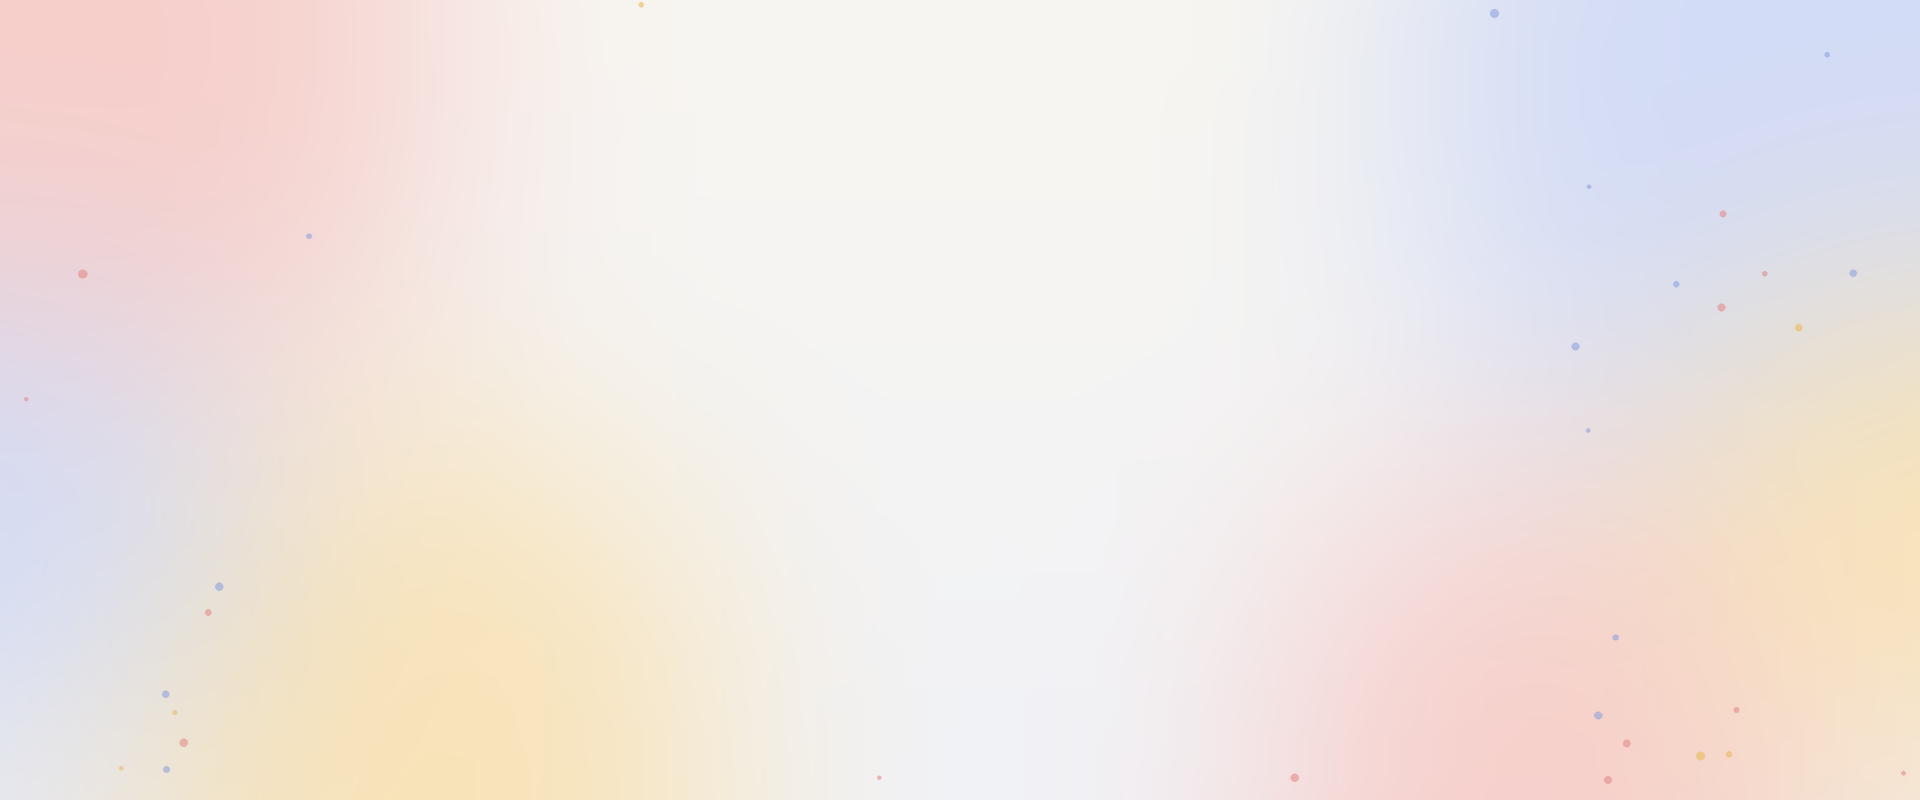
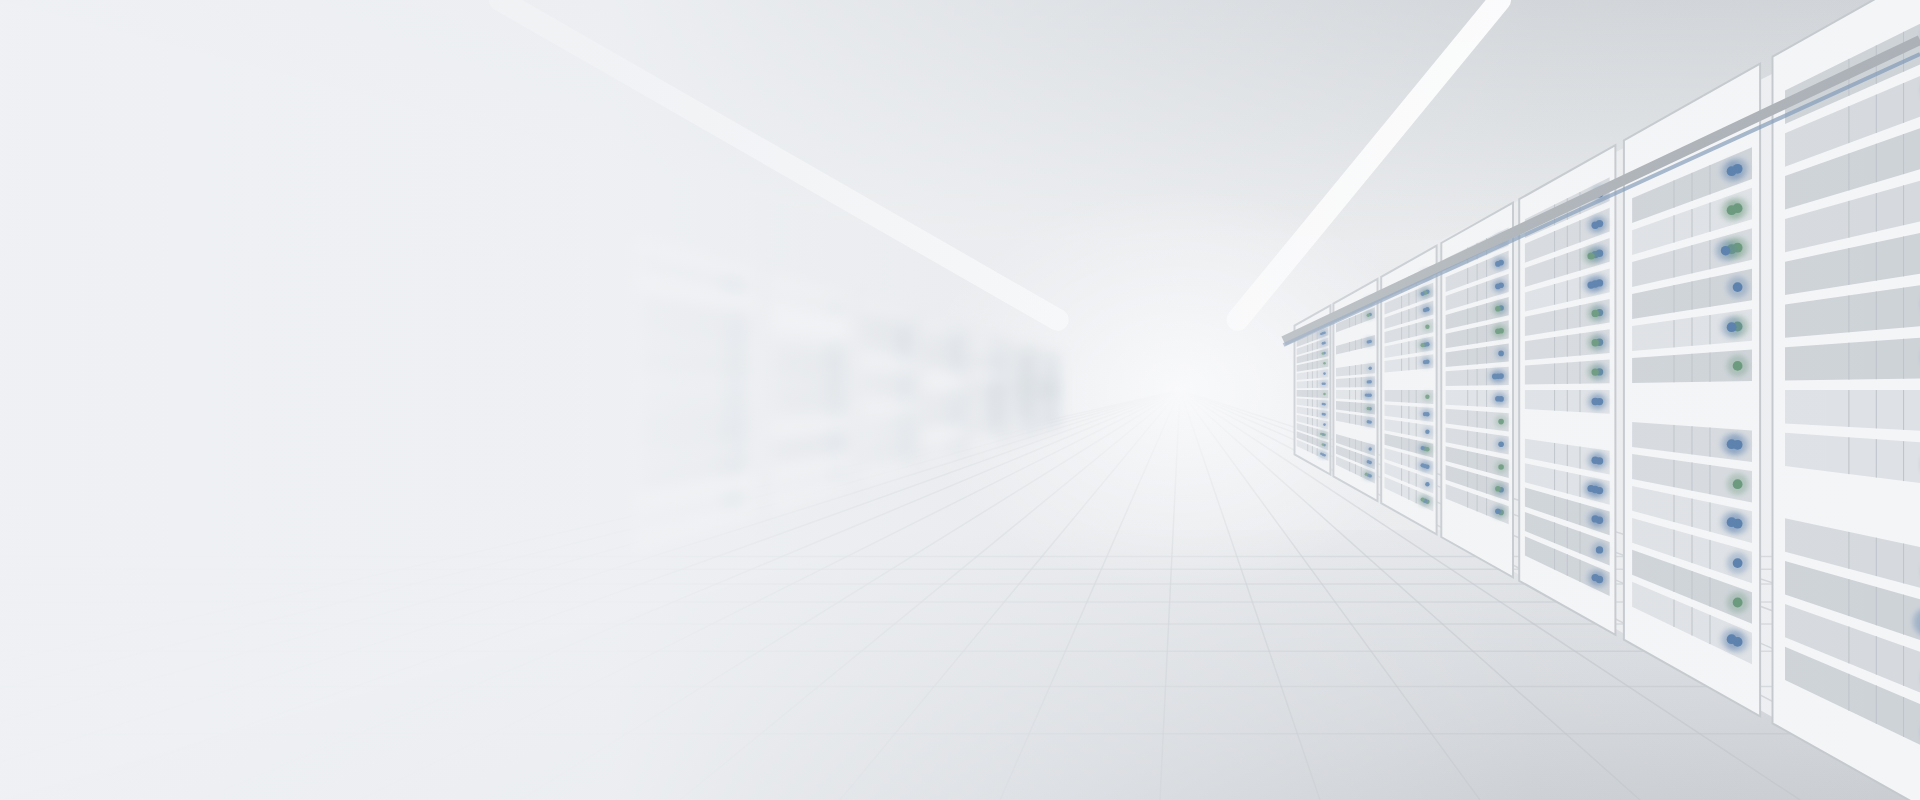
홈 슬라이드 구성 변경

diff --git a/site/static/css/custom.css b/site/static/css/custom.css
@@ -895,6 +895,7 @@ article > header > .aspect-video {
 .splide__slide .s-fade-txt h1 {
   font-size: 1.875rem;
   line-height: 1.35;
+  color: #000;
 }
 @media (max-width: 640px) {
   .splide__list img {
@@ -908,12 +909,12 @@ article > header > .aspect-video {
   }
 }
 
-/* 홈 슬라이드 서브 문구: 작고 연하게 */
+/* 홈 슬라이드 서브 문구 */
 .splide__slide .hero-sub {
   margin-top: 0.6rem;
   font-size: 1rem;
   line-height: 1.6;
-  color: rgba(255, 255, 255, 0.7);
+  color: rgba(0, 0, 0, 0.6);
 }
 @media (max-width: 640px) {
   .splide__slide .hero-sub {
